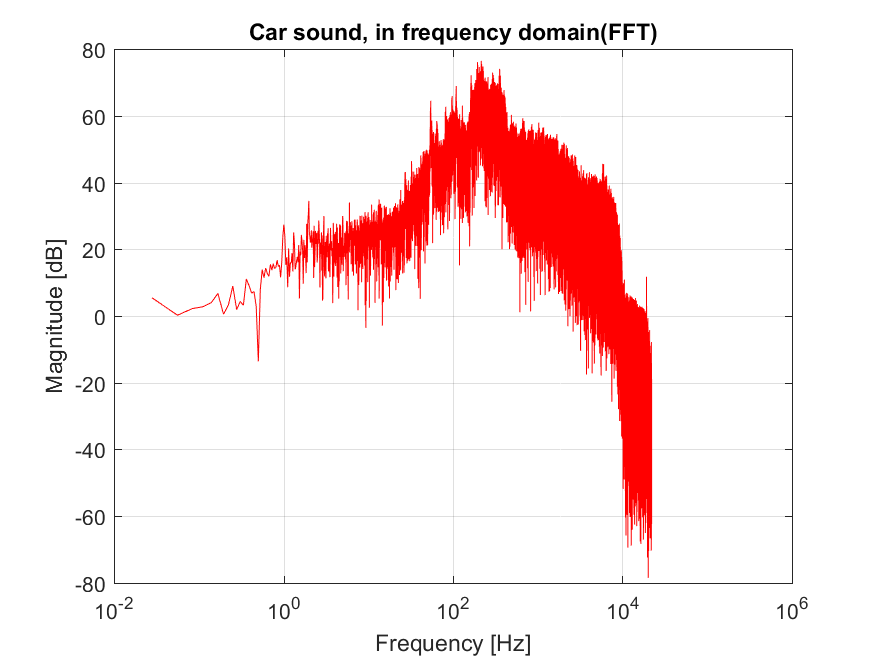
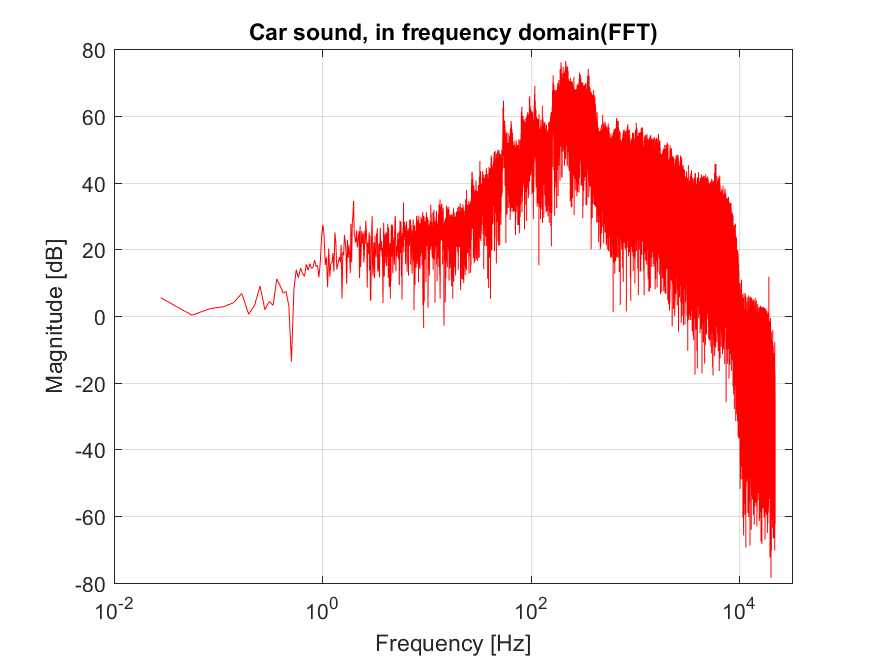
Spelling mistakes

diff --git a/contents.tex b/contents.tex
@@ -75,47 +75,47 @@ Korrekte frekvensbins?
 Eksperimenter med udglatning, zero-padding og windowing 
 
 \section{Energy} 
-table \ref{tab:Energy} shows the energies in signals before and after the fourier transform. And it clearly shows that there is no loss of energy and a Fourier transform.
-but when smoothing and windowing is applied there is a potential loss of energy. While zero pad doesn't add or remove any energy from the signal
+\Cref{tab:Energy} shows the energies in signals before and after the Fourier transform. It clearly shows that there is no loss of energy between the original signal and a Fourier transform, but when smoothing and windowing is applied there is a potential loss of energy.
+While zero padding does not add or remove any energy from the signal.
 \begin{table}[]
-\centering
-\begin{tabularx}{\textwidth}{Xllll}
-windmill                      &                  &           &           &           \\
-time domain                   & frequency domain & smoot     & zero pad  & Windowing \\
-4,141E+04                     & 4,141E+04        & 7,100E+02 & 4,141E+04 & 1,793E+04 \\
-                              &                  &           &           &           \\
-car sound                     &                  &           &           &           \\
-time domain                   & frequency domain & smoot     & zero pad  & Windowing \\
-3,07E+04                      & 3,07E+04         & 6,86E+02  & 3,07E+04  & 1,34E+04  \\
-                              &                  &           &           &           \\
-                              &                  &           &           &           \\
-Cheerleader                   &                  &           &           &           \\
-time domain                   & frequency domain & smoot     & zero pad  & Windowing \\
-1,34E+05                      & 1,34E+05         & 1,29E+03  & 1,34E+05  & 7,39E+04  \\
-                              &                  &           &           &           \\
-Roundtable Rival              &                  &           &           &           \\
-time domain                   & frequency domain & smoot     & zero pad  & Windowing \\
-2,98E+05                      & 2,98E+05         & 1,70E+03  & 2,98E+05  & 1,28E+05  \\
-                              &                  &           &           &           \\
-Michael Jackson - Billie Jean &                  &           &           &           \\
-time domain                   & frequency domain & smoot     & zero pad  & Windowing \\
-1,627E+05                     & 1,627E+05        & 1,727E+03 & 1,627E+05 & 6,862E+04 \\
-                              &                  &           &           &           \\
-Let-It-Go Violin              &                  &           &           &           \\
-time domain                   & frequency domain & smoot     & zero pad  & Windowing \\
-2,24E+04                      & 2,24E+04         & 896,4634  & 2,24E+04  & 1,09E+04  \\
-                              &                  &           &           &           \\
-crystalglass                  &                  &           &           &           \\
-time domain                   & frequency domain & smoot     & zero pad  & Windowing \\
-115,23                        & 115,23           & 154,83    & 115,23    & 2,65      \\
-                              &                  &           &           &           \\
-heartmonitor-ekg              &                  &           &           &           \\
-time domain                   & frequency domain & smoot     & zero pad  & Windowing \\
-2,05E+04                      & 2,05E+04         & 626       & 2,05E+04  & 7,29E+03 
-\end{tabularx}
-
-\caption{energy in different signals after, different analysis methods }
-\label{tab:Energy}
+	\centering
+	\begin{tabularx}{\textwidth}{Xllll}
+		windmill                      &                  &           &           &           \\
+		time domain                   & frequency domain & smoot     & zero pad  & Windowing \\
+		4,141E+04                     & 4,141E+04        & 7,100E+02 & 4,141E+04 & 1,793E+04 \\
+		                              &                  &           &           &           \\
+		car sound                     &                  &           &           &           \\
+		time domain                   & frequency domain & smoot     & zero pad  & Windowing \\
+		3,07E+04                      & 3,07E+04         & 6,86E+02  & 3,07E+04  & 1,34E+04  \\
+		                              &                  &           &           &           \\
+		                              &                  &           &           &           \\
+		Cheerleader                   &                  &           &           &           \\
+		time domain                   & frequency domain & smoot     & zero pad  & Windowing \\
+		1,34E+05                      & 1,34E+05         & 1,29E+03  & 1,34E+05  & 7,39E+04  \\
+		                              &                  &           &           &           \\
+		Roundtable Rival              &                  &           &           &           \\
+		time domain                   & frequency domain & smoot     & zero pad  & Windowing \\
+		2,98E+05                      & 2,98E+05         & 1,70E+03  & 2,98E+05  & 1,28E+05  \\
+		                              &                  &           &           &           \\
+		Michael Jackson - Billie Jean &                  &           &           &           \\
+		time domain                   & frequency domain & smoot     & zero pad  & Windowing \\
+		1,627E+05                     & 1,627E+05        & 1,727E+03 & 1,627E+05 & 6,862E+04 \\
+		                              &                  &           &           &           \\
+		Let-It-Go Violin              &                  &           &           &           \\
+		time domain                   & frequency domain & smoot     & zero pad  & Windowing \\
+		2,24E+04                      & 2,24E+04         & 896,4634  & 2,24E+04  & 1,09E+04  \\
+		                              &                  &           &           &           \\
+		crystalglass                  &                  &           &           &           \\
+		time domain                   & frequency domain & smoot     & zero pad  & Windowing \\
+		115,23                        & 115,23           & 154,83    & 115,23    & 2,65      \\
+		                              &                  &           &           &           \\
+		heartmonitor-ekg              &                  &           &           &           \\
+		time domain                   & frequency domain & smoot     & zero pad  & Windowing \\
+		2,05E+04                      & 2,05E+04         & 626       & 2,05E+04  & 7,29E+03 
+	\end{tabularx}
+	
+	\caption{energy in different signals after, different analysis methods }
+	\label{tab:Energy}
 \end{table}
 
 \section{Discussion}

diff --git a/code/car.m b/code/car.m
@@ -16,6 +16,7 @@ hold on
 title([figureTitle, ' sound, in time domain']);
 xlabel('Time[s]');
 ylabel('Magnitude');
+xlim([0 35]);
 hold off
 
 frequency_samples = [0:Fs/N:(Fs-(Fs/N))];
@@ -29,6 +30,7 @@ grid on
 title([figureTitle, ' sound, in frequency domain(FFT)']);
 xlabel('Frequency [Hz]');
 ylabel('Magnitude [dB]');
+xlim([10^-2 Fs/2+10000])
 
 [YMax, NMax] = max(YdB(1:N/2));
 FMax = frequency_samples(NMax);
@@ -100,6 +102,3 @@ saveas(figure(2), [figureTitle, '_figure2'], 'png');
 saveas(figure(3), [figureTitle, '_figure3'], 'png');
 saveas(figure(4), [figureTitle, '_figure4'], 'png');
 saveas(figure(5), [figureTitle, '_figure5'], 'png');
-
-
-

diff --git a/main.tex b/main.tex
@@ -24,6 +24,7 @@
 \usepackage[backend=biber,style=alphabetic,hyperref]{biblatex} % Needed for bibliography
 \usepackage{graphicx}
 \usepackage{tabularx}
+\usepackage{cleveref}
 
 
 
